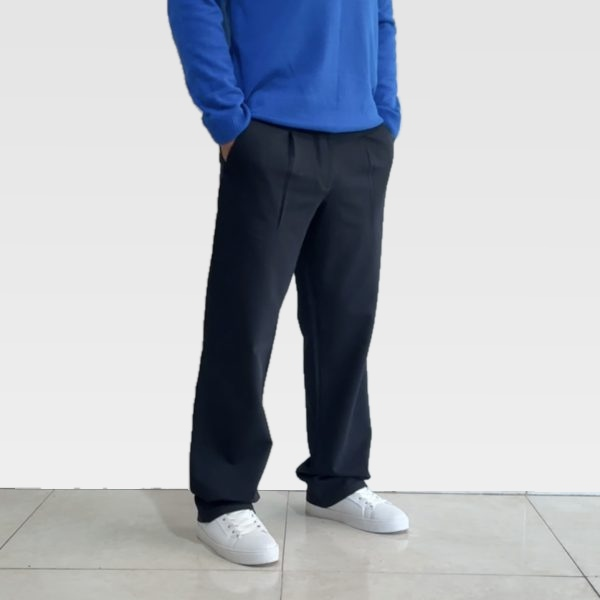
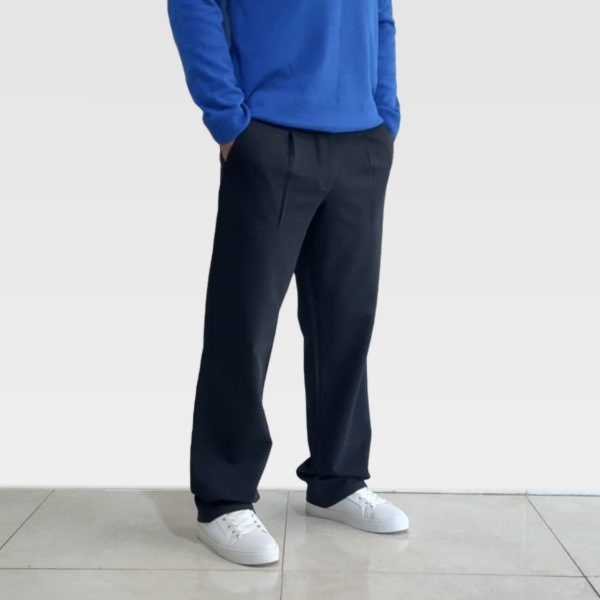
Rebuild the wall pass on the soft matte (smooth edges)
The staircase outline came from the binary mask chain (threshold, hole
fill, closing, graph cut) used to cut the model out. This drops all of it:

- the person's matte is the segmentation model's own soft alpha, so the
  outline keeps its natural sub-pixel edge
- the wall is painted with the continuous weight clip((0.92-a)/0.55)
- background swallowed by the matte (the slot between the crossed legs) is
  recovered from the local background colour, as a smooth ramp, and only
  large patches count -- a white shoe or a highlight is never painted over
- nothing at or below the wall/floor line is touched: the floor is
  byte-identical (max |Δ| = 0) and the person is too (max |Δ| = 0)
- wall grey 229 at the top edge to 239 at the floor line

از نو ساخته شد: لبهها دیگر دندانهای نیستند چون ماسک دودویی/گرافکات
کامل حذف شد و آلفای نرم خود مدل استفاده میشود؛ کف و مدل هم پیکسلبهپیکسل
مثل اصل ماندهاند.

diff --git a/photos/README.md b/photos/README.md
@@ -1,7 +1,7 @@
-# Photo set — light grey studio wall, original floor
+# Photo set — light grey wall, original floor, soft silhouette
 
-Eight clothing shots for the shop: the wall behind the model is a soft light
-grey, the floor and the model are the original photograph, untouched.
+Eight clothing shots for the shop. The wall behind the model is a soft light
+grey; the floor and the model are the original photograph.
 
 | What | Where |
 | --- | --- |
@@ -14,28 +14,39 @@ grey, the floor and the model are the original photograph, untouched.
 * **Aspect ratio** 1:1 — the uploads were already square, nothing was cropped.
 * **Sizes** 600×600 (seven files), 963×963 (`IMG_E2372-Copy.jpg`); the pixel
   size of the originals is kept, no resampling.
-* **Wall** light grey, a gentle backdrop gradient: RGB 229 at the top edge to
-  239 just above the floor line (neutral, no colour cast), no cast shadow.
-* **Floor** the floor of the original photo, **not touched** — the shop's own
-  cream ceramic tile, pixel for pixel (its natural reflection/shade under the
-  shoes included). The wall/floor line is feathered over ~9 px.
-* **Model** untouched: the wall colour is only applied outside the person,
-  and the space between the legs is cleaned too (see below).
+* **Wall** light grey, gentle backdrop gradient: RGB 229 at the top edge to
+  239 just above the floor line, neutral, no cast shadow.
+* **Floor** the floor of the original photo, **byte-identical** — the shop's
+  own cream ceramic tile, including its natural reflection under the shoes.
+  The wall/floor line is feathered over ~9 px.
+* **Model** untouched: cloth, skin and shoes keep their own pixels.
+* **Edges** come from the matte itself — a smooth sub-pixel edge, no binary
+  mask, no cut-out staircase.
 * **Format** JPEG, quality 96.
 
-## What is verified, per file
+## How it is made (and why the edges are smooth)
 
-* Every pixel of the floor (below the wall/floor line): **identical** to the
-  original, max |Δ| = 0.
-* The person's cloth and skin (sweater, trousers, shoes, hands): **identical**
-  to the original — the only change is a soft 1–2 px anti-aliasing at the
-  silhouette edge, which is where the wall colour meets the cut-out.
-* Above the wall/floor line every background pixel is the grey gradient, so
-  no beige patch of the old wall is left — including the narrow slot between
-  the crossed legs, which the cut-out mask used to swallow.
+1. The person's matte is the segmentation model's own soft alpha (0…1 per
+   pixel, computed at 1024² and resampled) — **no** thresholding, hole
+   filling, morphology or graph cut anywhere in the chain, because those
+   quantise the outline and that is what produced the staircase edges.
+2. The wall is painted with the continuous weight `clip((0.92 − α)/0.55)`:
+   fully outside the person, zero on the person, a natural sub-pixel ramp in
+   between.
+3. Background that the matte swallowed (the narrow slot between the crossed
+   legs) is recovered by comparing each pixel with the local background
+   colour; that test is a smooth ramp too, and only large patches count, so a
+   white shoe or a highlight is never painted over.
+4. Nothing at or below the wall/floor line is ever touched, so the floor is
+   guaranteed original.
 
-## Buttons to turn (in the generator)
+## Verified per file
 
-* wall tones are the two numbers `top=229`, `bottom=239` — raise/lower them
-  for a lighter/darker grey.
-* the floor line comes from `studio_bg.detect_horizon`, per photo.
+* floor (below the wall/floor line): max |Δ| = **0**
+* the person (α > 0.9): max |Δ| = **0**
+* background above the line: the grey gradient only (229…239)
+
+## Numbers to turn (in the generator)
+
+* `top=229`, `bottom=239` — the grey of the wall at the top edge / near the
+  floor line.
